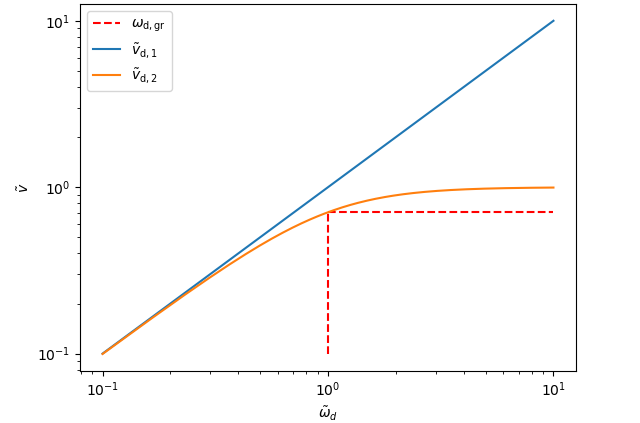
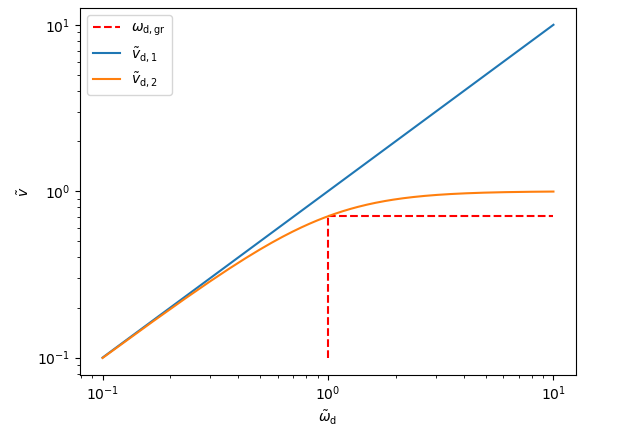
EL2: Filerename

diff --git a/Versuch_EL2/20-Plots.py b/Versuch_EL2/20-Plots.py
@@ -23,7 +23,7 @@ plt.plot(x_igrv, y_igrv, color='r', linestyle='--')
 plt.plot(x, yi1, Label=r'$\tilde{v}_\mathregular{i,1}$')
 plt.plot(x, yi2, Label=r'$\tilde{v}_\mathregular{i,2}$')
 plt.xscale('log')
-plt.xlabel(r'$\tilde{\omega}_i$')
+plt.xlabel(r'$\tilde{\omega}_\mathregular{i}$')
 plt.yscale('log')
 plt.ylabel(r'$\tilde{v}$')
 plt.legend()
@@ -46,7 +46,7 @@ plt.plot(x_dgrv, y_dgrv, color='r', linestyle='--')
 plt.plot(x, yd1, Label=r'$\tilde{v}_\mathregular{d,1}$')
 plt.plot(x, yd2, Label=r'$\tilde{v}_\mathregular{d,2}$')
 plt.xscale('log')
-plt.xlabel(r'$\tilde{\omega}_d$')
+plt.xlabel(r'$\tilde{\omega}_\mathregular{d}$')
 plt.yscale('log')
 plt.ylabel(r'$\tilde{v}$')
 plt.legend()
@@ -69,12 +69,12 @@ w_0, y_w0 = np.sqrt(w_i*w_d), np.linspace(1/10, yw0, anzahl)
 #plt.plot(x, yd1, Label=r'$\tilde{v}_\mathregular{d,1}$', color='grey')
 #plt.plot(x, yd2, Label=r'$\tilde{v}_\mathregular{d,2}$', color='grey')
 plt.plot(x,yk)
-plt.plot(w_d,y_wd, linestyle='--', label= r'$\omega_{d,gr}$')
-plt.plot(w_i,y_wi, linestyle='--', label= r'$\omega_{i,gr}$')
+plt.plot(w_d,y_wd, linestyle='--', label= r'$\omega_\mathregular{d,gr}$')
+plt.plot(w_i,y_wi, linestyle='--', label= r'$\omega_\mathregular{i,gr}$')
 plt.plot(w_0,y_w0, linestyle='--', label= r'$\omega_{0}$')
 plt.xscale('log')
 plt.xlabel(r'$\omega$ in $\frac{1}{\mathregular{s}}$')
 plt.yscale('log')
-plt.ylabel(r'$v_{d,i}$')
+plt.ylabel(r'$v_\mathregular{d,i}$')
 plt.legend()
 plt.show()

diff --git a/Versuch_EL2/20-FragenZurVorbereitung.tex b/Versuch_EL2/20-FragenZurVorbereitung.tex
@@ -198,7 +198,7 @@ Diesen Schritt wiederholt man nun nochmal mit, aber nun wird noch zum Widerstand
 \end{gather}
 Mit $R_1 = 2~\Omega, R_2 = \frac{1}{2}~\Omega, C_1 = 2~\text{F}$ und $C_2 = \frac{1}{2}~\text{F}$ erhält man dann Abbildung 2.7 .
 \begin{center}
-    \includegraphics[scale = 0.55]{bandfilter.png}
+    \includegraphics[scale = 0.7]{bandfilter.png}
     \captionof{figure}{Frequenzabhängigkeit von $v$ zu $\omega$}
 \end{center}
 Die Bandpass wirkt als Differenzierer für $\omega \ll \omega_{d,gr}$ und bei $\omega \gg \omega_{i,gr}$ als Integrierer. Bei geeigneter Wahl von $R_1, R_2, C_1$ und $C_2$ kann der Bandbereich ($\omega \in [\omega_{d,gr},\omega_{i,gr}])$ geschmälert oder verbreitet werden. %HBS
